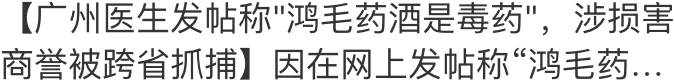
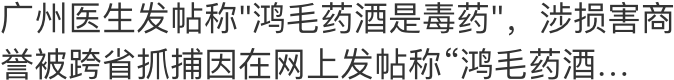
changetext

diff --git a/hotExtend.framer/framer/framer.generated.js b/hotExtend.framer/framer/framer.generated.js
@@ -842,9 +842,9 @@ window.__imported__["forframer@2x/layers.json.js"] = [
 										"maskFrame": null,
 										"layerFrame": {
 											"x": 13,
-											"y": 376,
-											"width": 344,
-											"height": 226
+											"y": 377,
+											"width": 345,
+											"height": 225
 										},
 										"visible": true,
 										"metadata": {
@@ -854,9 +854,9 @@ window.__imported__["forframer@2x/layers.json.js"] = [
 											"path": "images/Layer-content5-nzhcrtzb.png",
 											"frame": {
 												"x": 13,
-												"y": 376,
-												"width": 344,
-												"height": 226
+												"y": 377,
+												"width": 345,
+												"height": 225
 											}
 										},
 										"children": []
@@ -1003,14 +1003,14 @@ window.__imported__["forframer@2x/layers.json.js"] = [
 										"maskFrame": null,
 										"layerFrame": {
 											"x": 13,
-											"y": 356,
-											"width": 344,
-											"height": 40
+											"y": 357,
+											"width": 345,
+											"height": 39
 										},
 										"visible": true,
 										"metadata": {
 											"opacity": 1,
-											"string": "【央视评鸿茅药酒事件：防止荒唐执法 为权力套紧箍咒】因一篇名为中国神酒“鸿毛药酒…",
+											"string": "央视评鸿茅药酒事件：防止荒唐执法 为权力套紧箍咒因一篇名为中国神酒“鸿毛药酒微信",
 											"css": [
 												"/* Timeline / Weibo / Text: */",
 												"font-family: PingFangSC-Regular;",
@@ -1023,9 +1023,9 @@ window.__imported__["forframer@2x/layers.json.js"] = [
 											"path": "images/Layer-content2-mdrdrerd.png",
 											"frame": {
 												"x": 13,
-												"y": 356,
-												"width": 344,
-												"height": 40
+												"y": 357,
+												"width": 345,
+												"height": 39
 											}
 										},
 										"children": []
@@ -1264,12 +1264,12 @@ window.__imported__["forframer@2x/layers.json.js"] = [
 											"x": 13,
 											"y": 270,
 											"width": 337,
-											"height": 156
+											"height": 155
 										},
 										"visible": true,
 										"metadata": {
 											"opacity": 1,
-											"string": "【广州医生发帖称\"鸿毛药酒是毒药\"，涉损害商誉被跨省抓捕】因在网上发帖称“鸿毛药酒是毒药”，广州医生谭秦东遭内蒙古自治区凉城县警方抓捕。谭秦东所涉嫌罪名为“损害商品声誉罪”，内蒙古鸿茅国药股份有限公司称，谭秦东的文章造成了140余万的退货损失，严重损害了公司声誉。但谭秦东… 全文",
+											"string": "广州医生发帖称\"鸿毛药酒是毒药\"，涉损害商誉被跨省抓捕因在网上发帖称“鸿毛药酒是毒药”，广州医生谭秦东遭内蒙古自治区凉城县警方抓捕。谭秦东所涉嫌罪名为“损害商品声誉罪”，内蒙古鸿茅国药股份有限公司称，谭秦东的文章造成了140余万的退货损失，严重损害了公司声誉。但谭秦东仍然… 全文",
 											"css": [
 												"/* Timeline / WeiboCard / Text: */",
 												"font-family: PingFangSC-Regular;",
@@ -1284,7 +1284,7 @@ window.__imported__["forframer@2x/layers.json.js"] = [
 												"x": 13,
 												"y": 270,
 												"width": 337,
-												"height": 156
+												"height": 155
 											}
 										},
 										"children": []
@@ -1465,7 +1465,7 @@ window.__imported__["forframer@2x/layers.json.js"] = [
 										"visible": true,
 										"metadata": {
 											"opacity": 1,
-											"string": "【广州医生发帖称\"鸿毛药酒是毒药\"，涉损害商誉被跨省抓捕】因在网上发帖称“鸿毛药…",
+											"string": "广州医生发帖称\"鸿毛药酒是毒药\"，涉损害商誉被跨省抓捕因在网上发帖称“鸿毛药酒…",
 											"css": [
 												"/* Timeline / Weibo / Text: */",
 												"font-family: PingFangSC-Regular;",

diff --git a/hotExtend.framer/imported/forframer@2x/layers.json.js b/hotExtend.framer/imported/forframer@2x/layers.json.js
@@ -838,9 +838,9 @@ window.__imported__["forframer@2x/layers.json.js"] = [
 										"maskFrame": null,
 										"layerFrame": {
 											"x": 13,
-											"y": 376,
-											"width": 344,
-											"height": 226
+											"y": 377,
+											"width": 345,
+											"height": 225
 										},
 										"visible": true,
 										"metadata": {
@@ -850,9 +850,9 @@ window.__imported__["forframer@2x/layers.json.js"] = [
 											"path": "images/Layer-content5-nzhcrtzb.png",
 											"frame": {
 												"x": 13,
-												"y": 376,
-												"width": 344,
-												"height": 226
+												"y": 377,
+												"width": 345,
+												"height": 225
 											}
 										},
 										"children": []
@@ -999,14 +999,14 @@ window.__imported__["forframer@2x/layers.json.js"] = [
 										"maskFrame": null,
 										"layerFrame": {
 											"x": 13,
-											"y": 356,
-											"width": 344,
-											"height": 40
+											"y": 357,
+											"width": 345,
+											"height": 39
 										},
 										"visible": true,
 										"metadata": {
 											"opacity": 1,
-											"string": "【央视评鸿茅药酒事件：防止荒唐执法 为权力套紧箍咒】因一篇名为中国神酒“鸿毛药酒…",
+											"string": "央视评鸿茅药酒事件：防止荒唐执法 为权力套紧箍咒因一篇名为中国神酒“鸿毛药酒微信",
 											"css": [
 												"/* Timeline / Weibo / Text: */",
 												"font-family: PingFangSC-Regular;",
@@ -1019,9 +1019,9 @@ window.__imported__["forframer@2x/layers.json.js"] = [
 											"path": "images/Layer-content2-mdrdrerd.png",
 											"frame": {
 												"x": 13,
-												"y": 356,
-												"width": 344,
-												"height": 40
+												"y": 357,
+												"width": 345,
+												"height": 39
 											}
 										},
 										"children": []
@@ -1260,12 +1260,12 @@ window.__imported__["forframer@2x/layers.json.js"] = [
 											"x": 13,
 											"y": 270,
 											"width": 337,
-											"height": 156
+											"height": 155
 										},
 										"visible": true,
 										"metadata": {
 											"opacity": 1,
-											"string": "【广州医生发帖称\"鸿毛药酒是毒药\"，涉损害商誉被跨省抓捕】因在网上发帖称“鸿毛药酒是毒药”，广州医生谭秦东遭内蒙古自治区凉城县警方抓捕。谭秦东所涉嫌罪名为“损害商品声誉罪”，内蒙古鸿茅国药股份有限公司称，谭秦东的文章造成了140余万的退货损失，严重损害了公司声誉。但谭秦东… 全文",
+											"string": "广州医生发帖称\"鸿毛药酒是毒药\"，涉损害商誉被跨省抓捕因在网上发帖称“鸿毛药酒是毒药”，广州医生谭秦东遭内蒙古自治区凉城县警方抓捕。谭秦东所涉嫌罪名为“损害商品声誉罪”，内蒙古鸿茅国药股份有限公司称，谭秦东的文章造成了140余万的退货损失，严重损害了公司声誉。但谭秦东仍然… 全文",
 											"css": [
 												"/* Timeline / WeiboCard / Text: */",
 												"font-family: PingFangSC-Regular;",
@@ -1280,7 +1280,7 @@ window.__imported__["forframer@2x/layers.json.js"] = [
 												"x": 13,
 												"y": 270,
 												"width": 337,
-												"height": 156
+												"height": 155
 											}
 										},
 										"children": []
@@ -1461,7 +1461,7 @@ window.__imported__["forframer@2x/layers.json.js"] = [
 										"visible": true,
 										"metadata": {
 											"opacity": 1,
-											"string": "【广州医生发帖称\"鸿毛药酒是毒药\"，涉损害商誉被跨省抓捕】因在网上发帖称“鸿毛药…",
+											"string": "广州医生发帖称\"鸿毛药酒是毒药\"，涉损害商誉被跨省抓捕因在网上发帖称“鸿毛药酒…",
 											"css": [
 												"/* Timeline / Weibo / Text: */",
 												"font-family: PingFangSC-Regular;",

diff --git a/hotExtend.framer/framer/framer.modules.js b/hotExtend.framer/framer/framer.modules.js
@@ -9,4 +9,4 @@ exports.myArray = [1, 2, 3];
 
 
 },{}]},{},[])
[2 lines of base64/hex data omitted]
